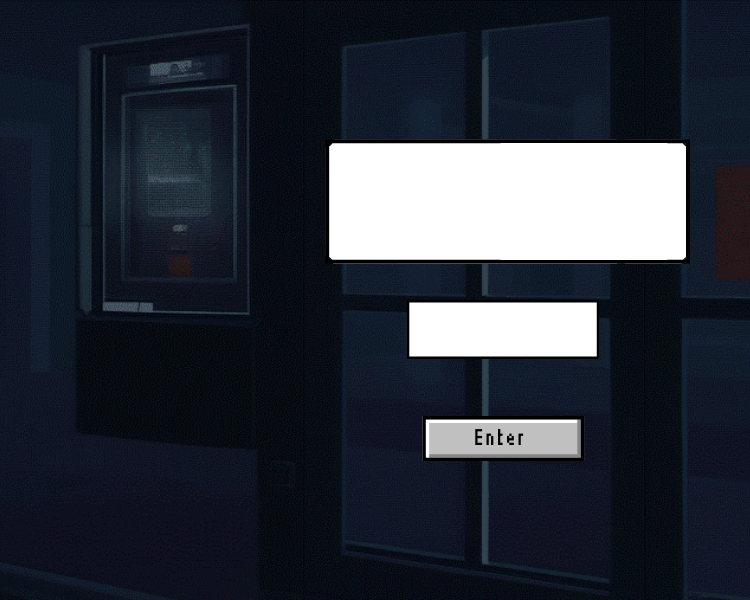
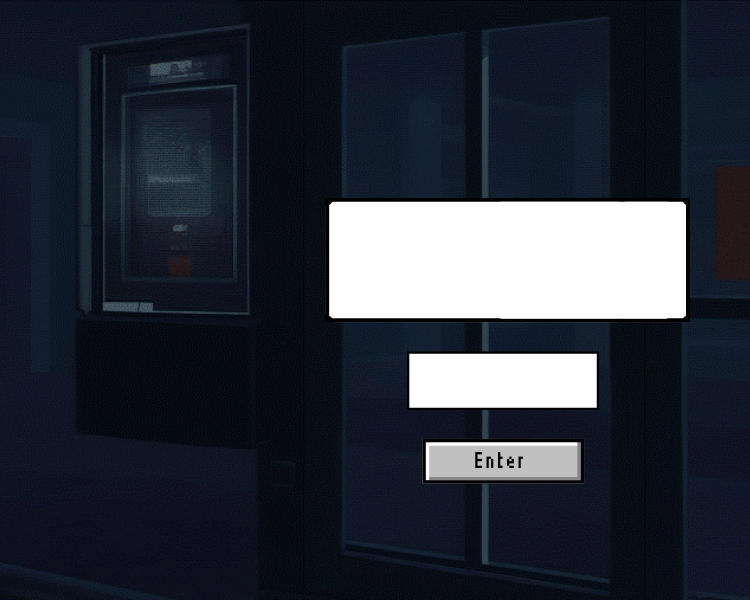
ex1 update 90
- edits
- image replacement

Changed region(s): [[0.4293, 0.42, 0.92, 0.81], [0.4293, 0.21, 0.92, 0.36]]

diff --git a/Assessment 1 - Skills Portfolio/Exercise 1 - Maths Quiz/MathsQuiz.py b/Assessment 1 - Skills Portfolio/Exercise 1 - Maths Quiz/MathsQuiz.py
@@ -577,20 +577,20 @@ class MathQuiz:
             self.mod_timer_label = Label(self.quiz_frame, text=timer_text,
                                          font=('Lucida Console', 16), 
                                          fg='#f39c12', bg='black')
-            self.mod_timer_label.place(x=300, y=520)
+            self.mod_timer_label.place(x=300, y=100)
             
         if self.current_mode == 'hard':
             timer_text = f'Time Left: {self.hardmode_time_remaining}s'
             self.hard_timer_label = Label(self.quiz_frame, text=timer_text,
                                           font=('Lucida Console', 16),
                                           fg='#e74c3c', bg='black')
-            self.hard_timer_label.place(x=300, y=520)
+            self.hard_timer_label.place(x=300, y=100)
         
         self.ques_label = Label(self.quiz_frame, text='', 
                                 font=('Lucida Console', 24, 'bold'), 
                                 fg='black', bg='white',
                                 padx=23, pady=18)
-        self.ques_label.place(x=510, y=205, anchor='center')
+        self.ques_label.place(x=510, y=260, anchor='center')
         
         # input area for the user to answer
         if self.current_mode == 'easy':
@@ -622,16 +622,17 @@ class MathQuiz:
     def create_mcq_interface(self):
         self.choice_buttons = [] # empty list to store the choices
         button_positions = [
-            (250, 300), (450, 300), 
-            (250, 400), (450, 400)
+            (358, 356), (510, 356), 
+            (358, 415), (510, 415)
         ] # list storing the buttons coordinates
         
         for i, (x, y) in enumerate(button_positions):
             choice_btn = Button(self.quiz_frame, text='',
-                                font=('Lucida Console', 14),
+                                font=('Lucida Console', 15),
                                 command=lambda idx=i: [self.play_sound('button'), # play button click sound
                                                        self.check_choice(idx)],
-                                width=8, height=2, bg='#c0c0c0', fg='black')
+                                width=10, bg='#c0c0c0', fg='black',
+                                padx=7, pady=5)
             choice_btn.place(x=x, y=y)
             self.choice_buttons.append(choice_btn) # appends the choices inside the list
     
@@ -641,7 +642,7 @@ class MathQuiz:
         self.answer_entry = Entry(self.quiz_frame, textvariable='Answer',
                                   font=('Lucida Console', 20),
                                   width=10, justify='center')
-        self.answer_entry.place(x=420, y=310)
+        self.answer_entry.place(x=420, y=365)
         self.answer_entry.bind('<Return>', lambda e: [self.play_sound('button'), # play button sound
                                                       self.check_ans_entry()]) # uses the return key in the keyboard to submit the answer
         self.answer_entry.focus()
@@ -653,7 +654,7 @@ class MathQuiz:
                                              self.check_ans_entry()],
                             bg='#c0c0c0', fg='black',
                             padx=30, pady=3)
-        submit_btn.place(x=425, y=420)
+        submit_btn.place(x=425, y=443)
         
     # update hearts using imags
     def update_hearts_display(self):
